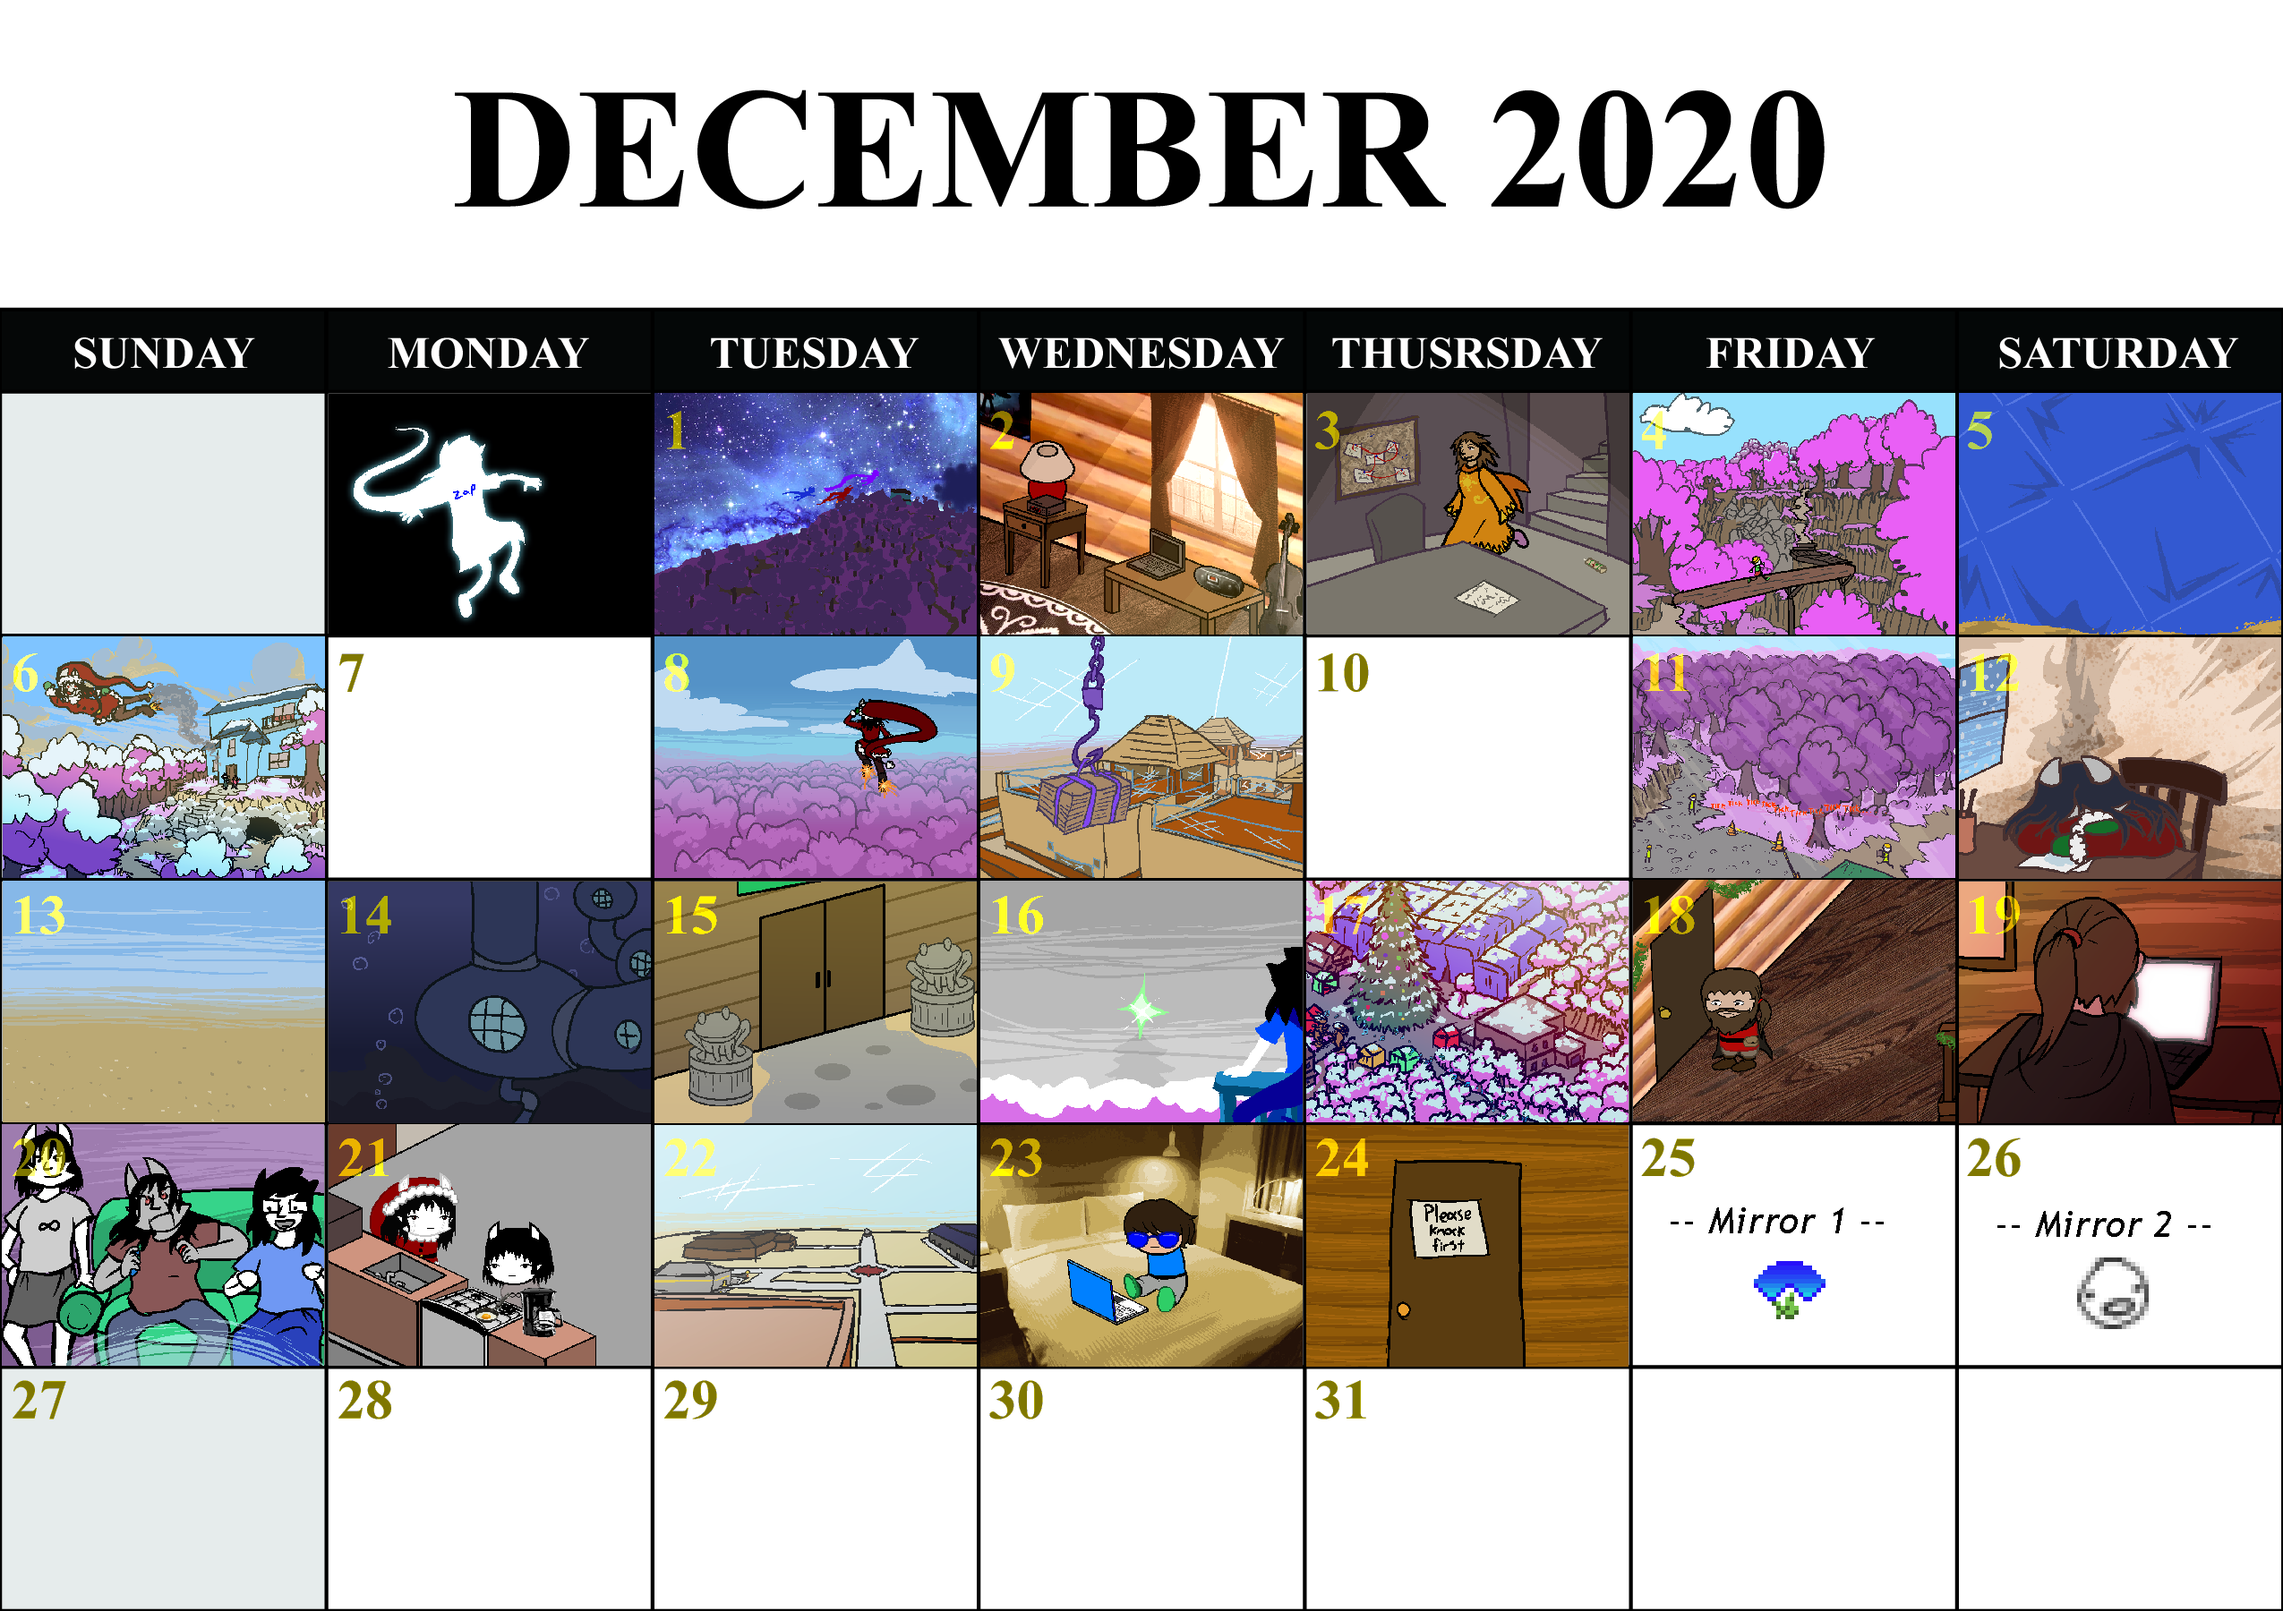
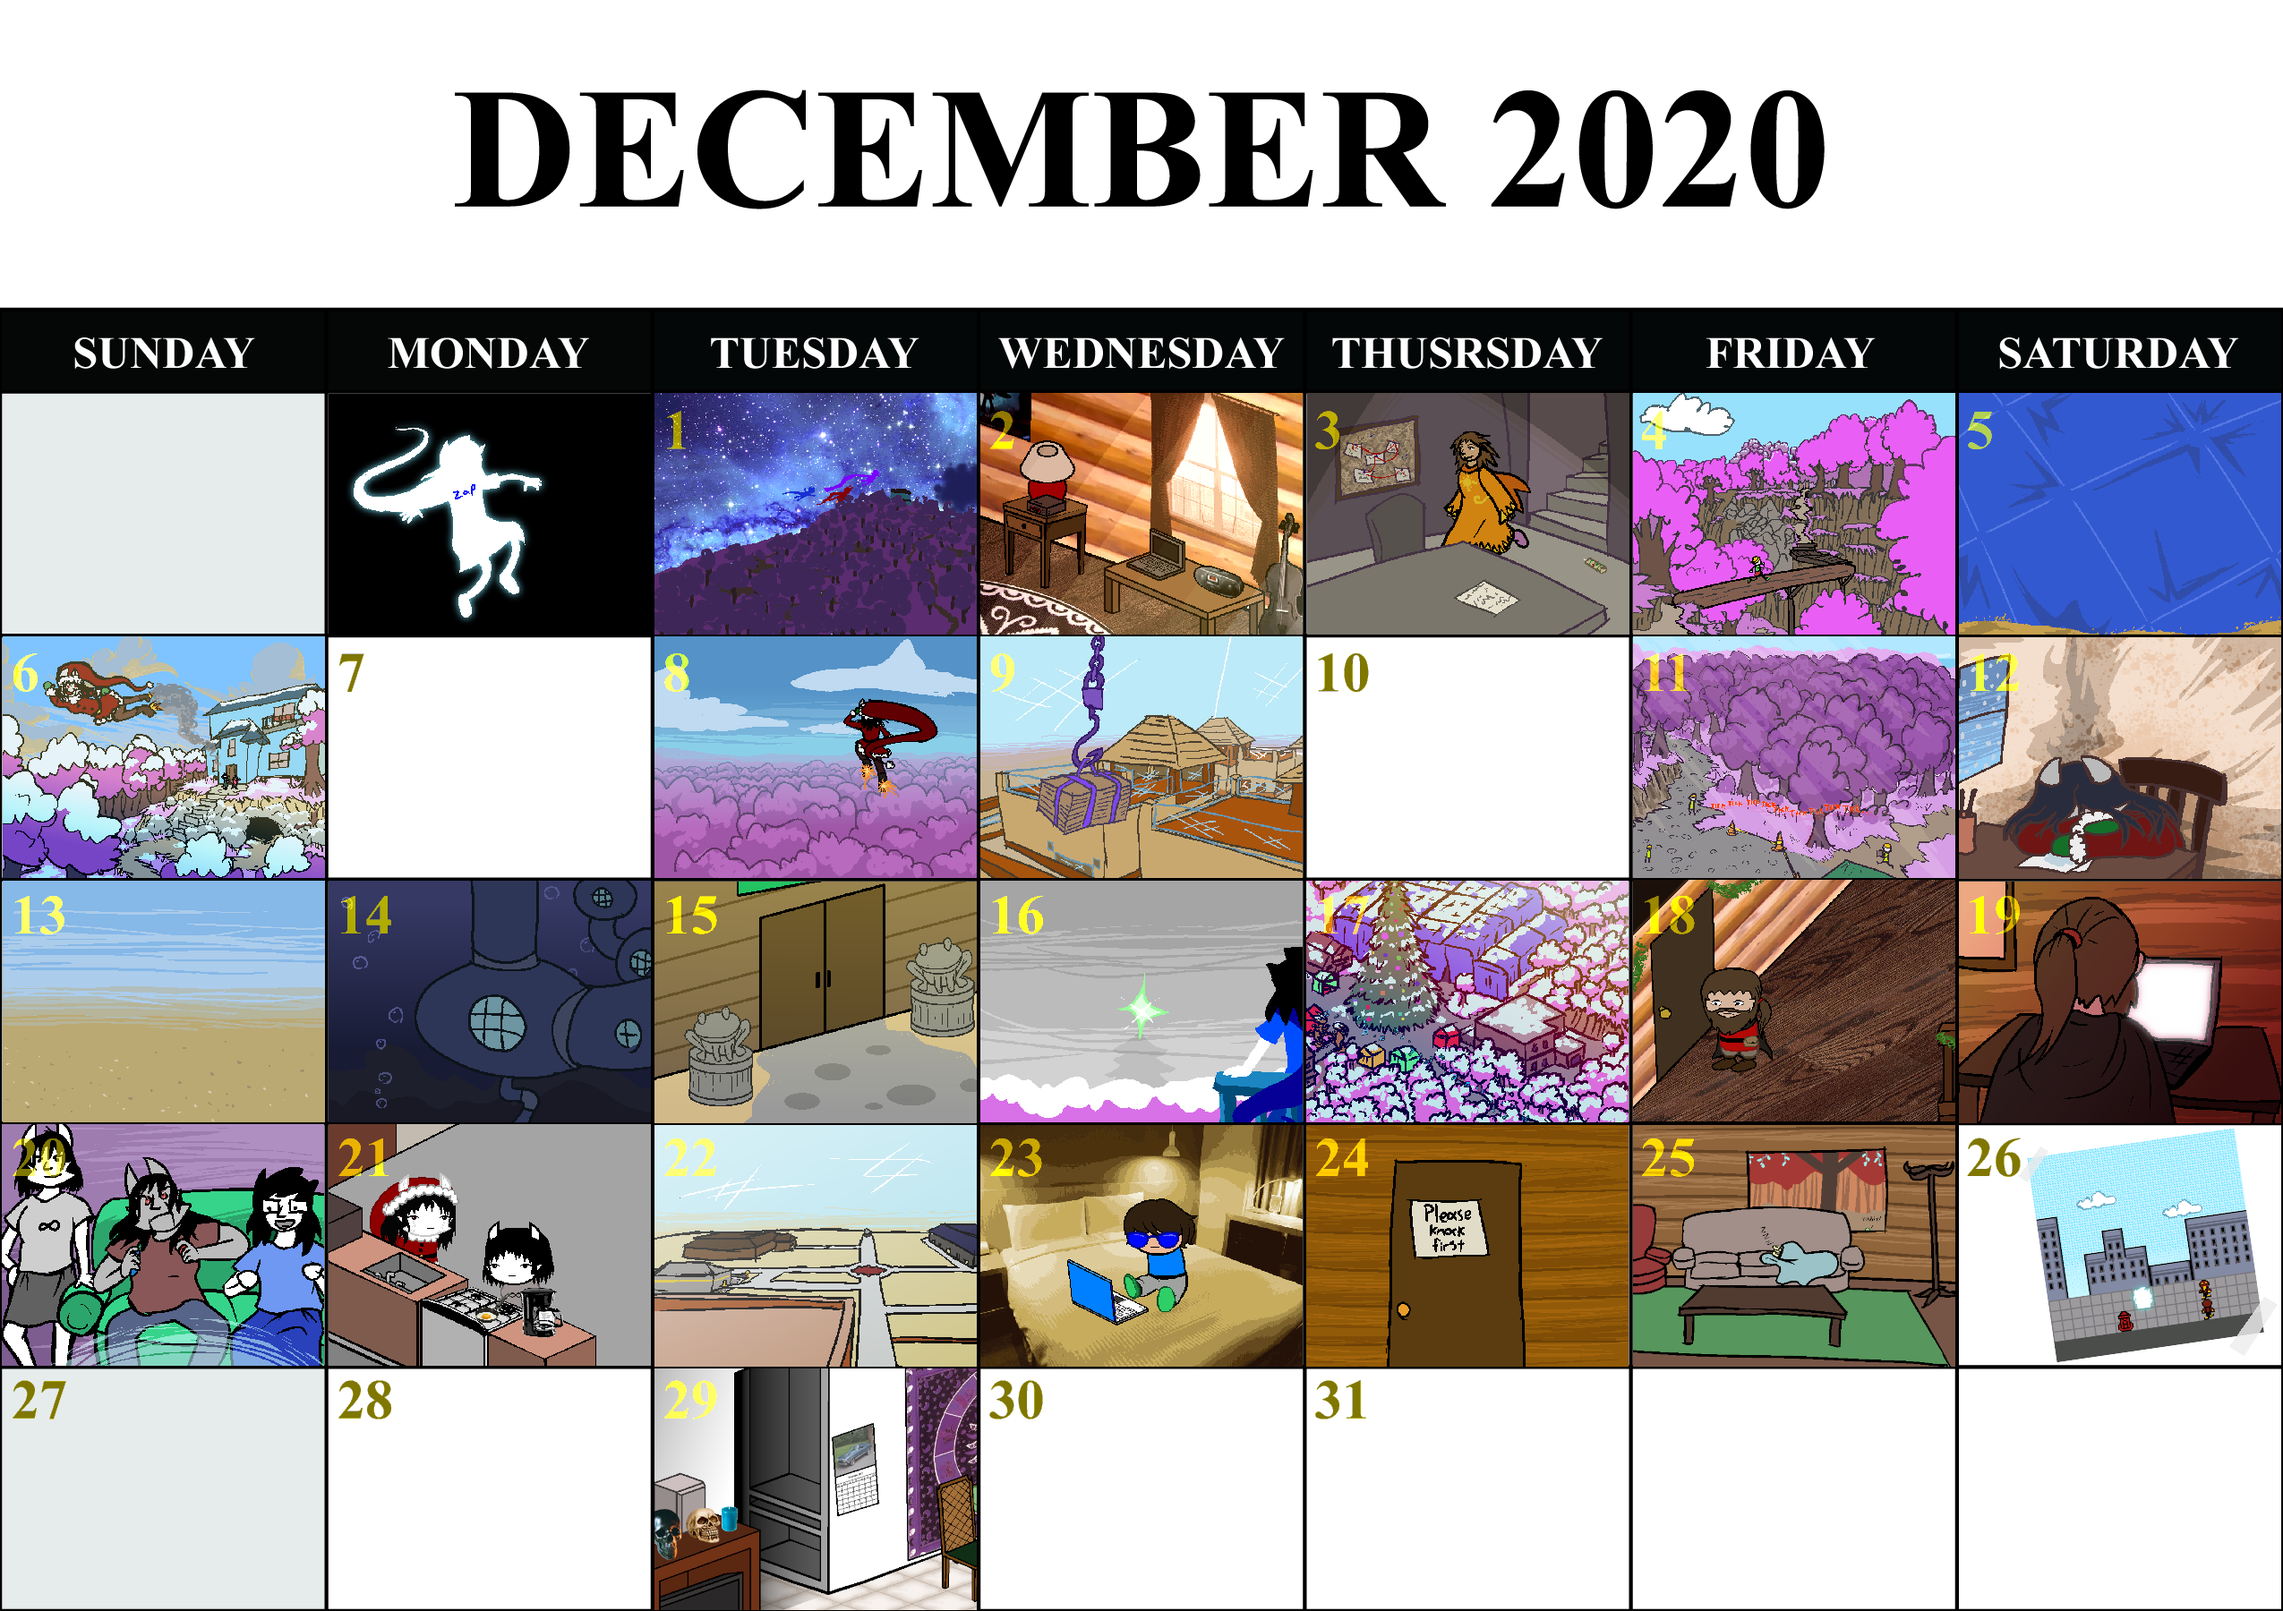
table webpage stuff
-updated the links!
-added new pictures!

Changed region(s): [[0.7125, 0.6844, 0.9914, 0.8711], [0.2788, 0.84, 0.4337, 1.0]]

diff --git a/dungeoncrashers/tablewebpage.html b/dungeoncrashers/tablewebpage.html
@@ -81,14 +81,17 @@ tr.thetop{   height: 17%;  }
     <td><a class="fullcell" target="_top"  alt="Medium Awareness" title="Medium Awareness" href="https://mspfa.com/?s=38989&p=1010" >&nbsp;</a></td>
     <td><a class="fullcell" target="_top"  alt="Calm before the storm" title="Calm before the storm" href="https://mspfa.com/?s=38989&p=1056" >&nbsp;</a></td>
     <td><a class="fullcell" target="_top"  alt="Delivery time!" title="Delivery time!" href="https://mspfa.com/?s=38989&p=1060" >&nbsp;</a></td>
-    <!--<td><a class="fullcell" target="_top"  alt="Gift opening!" title="Gift opening!" href="https://mspfa.com/?s=38989&p=1060" >&nbsp;</a></td> //add this later, change the  -->
-	    <td><a class="fullcell" target="_top"  alt="-- Mirror 1 --" title="-- Mirror 1 --" href="https://letssosl.boards.net/thread/360/pizza-left-beef" >&nbsp;</a></td>
-    <td><a class="fullcell" target="_top"  alt="-- Mirror 2 --" title="-- Mirror 2 --" href="https://forum.homestuck.xyz/viewtopic.php?f=20&t=1672" >&nbsp;</a></td>
+    <td><a class="fullcell" target="_top"  alt="Gift opening!" title="Gift opening!" href="https://mspfa.com/?s=38989&p=1166" >&nbsp;
+	</a></td>
+    <td><a class="fullcell" target="_top"  alt="A hop and a skip (last leg of retcon route)" title="A hop and a skip (last leg of retcon route)" href="https://mspfa.com/?s=38989&p=978" >&nbsp;
+	</a></td>
+    <td></td>
   </tr>
   <tr>
     <td></td>
     <td></td>
-    <td></td>
+    <td><a class="fullcell" target="_top"  alt="Redpilled in Morpheus's lair" title="Redpilled in Morpheus's lair" href="https://mspfa.com/?s=38989&p=1213" >&nbsp;
+	</a></td>
     <td></td>
     <td></td>
 
